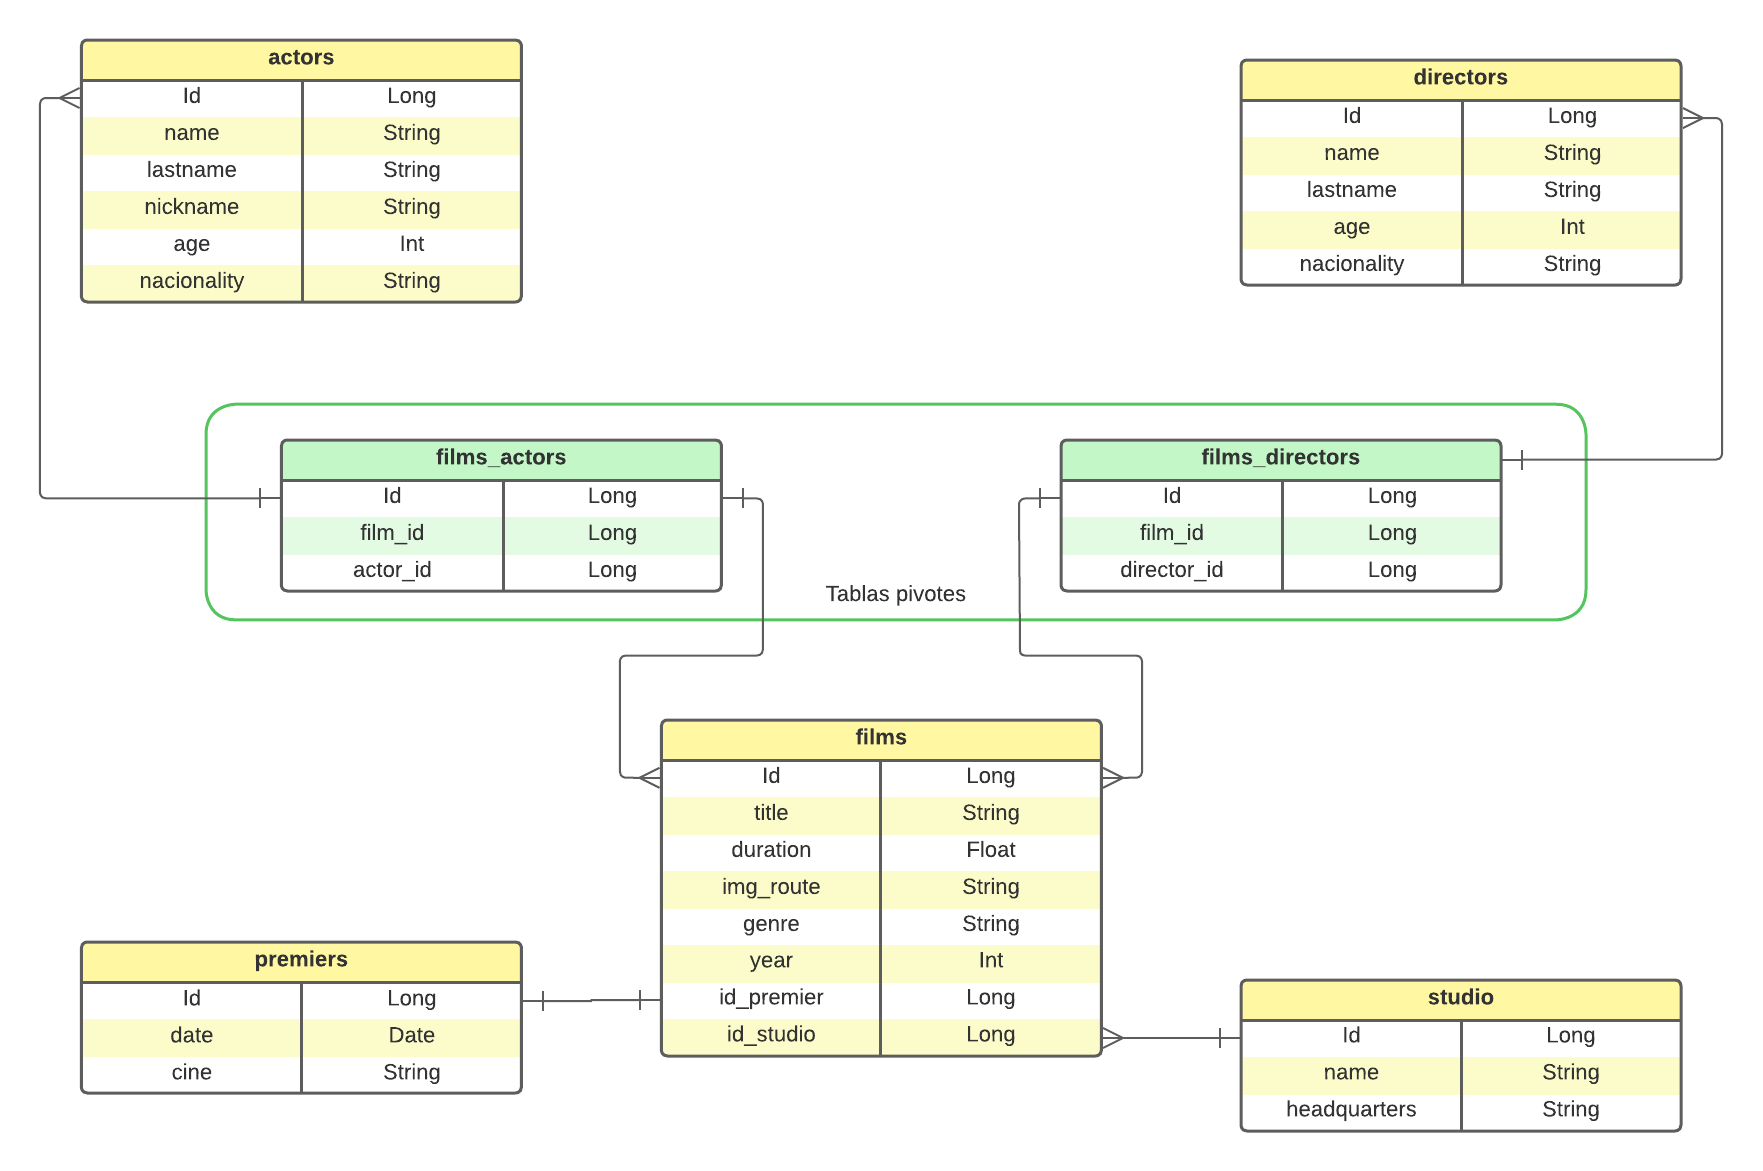
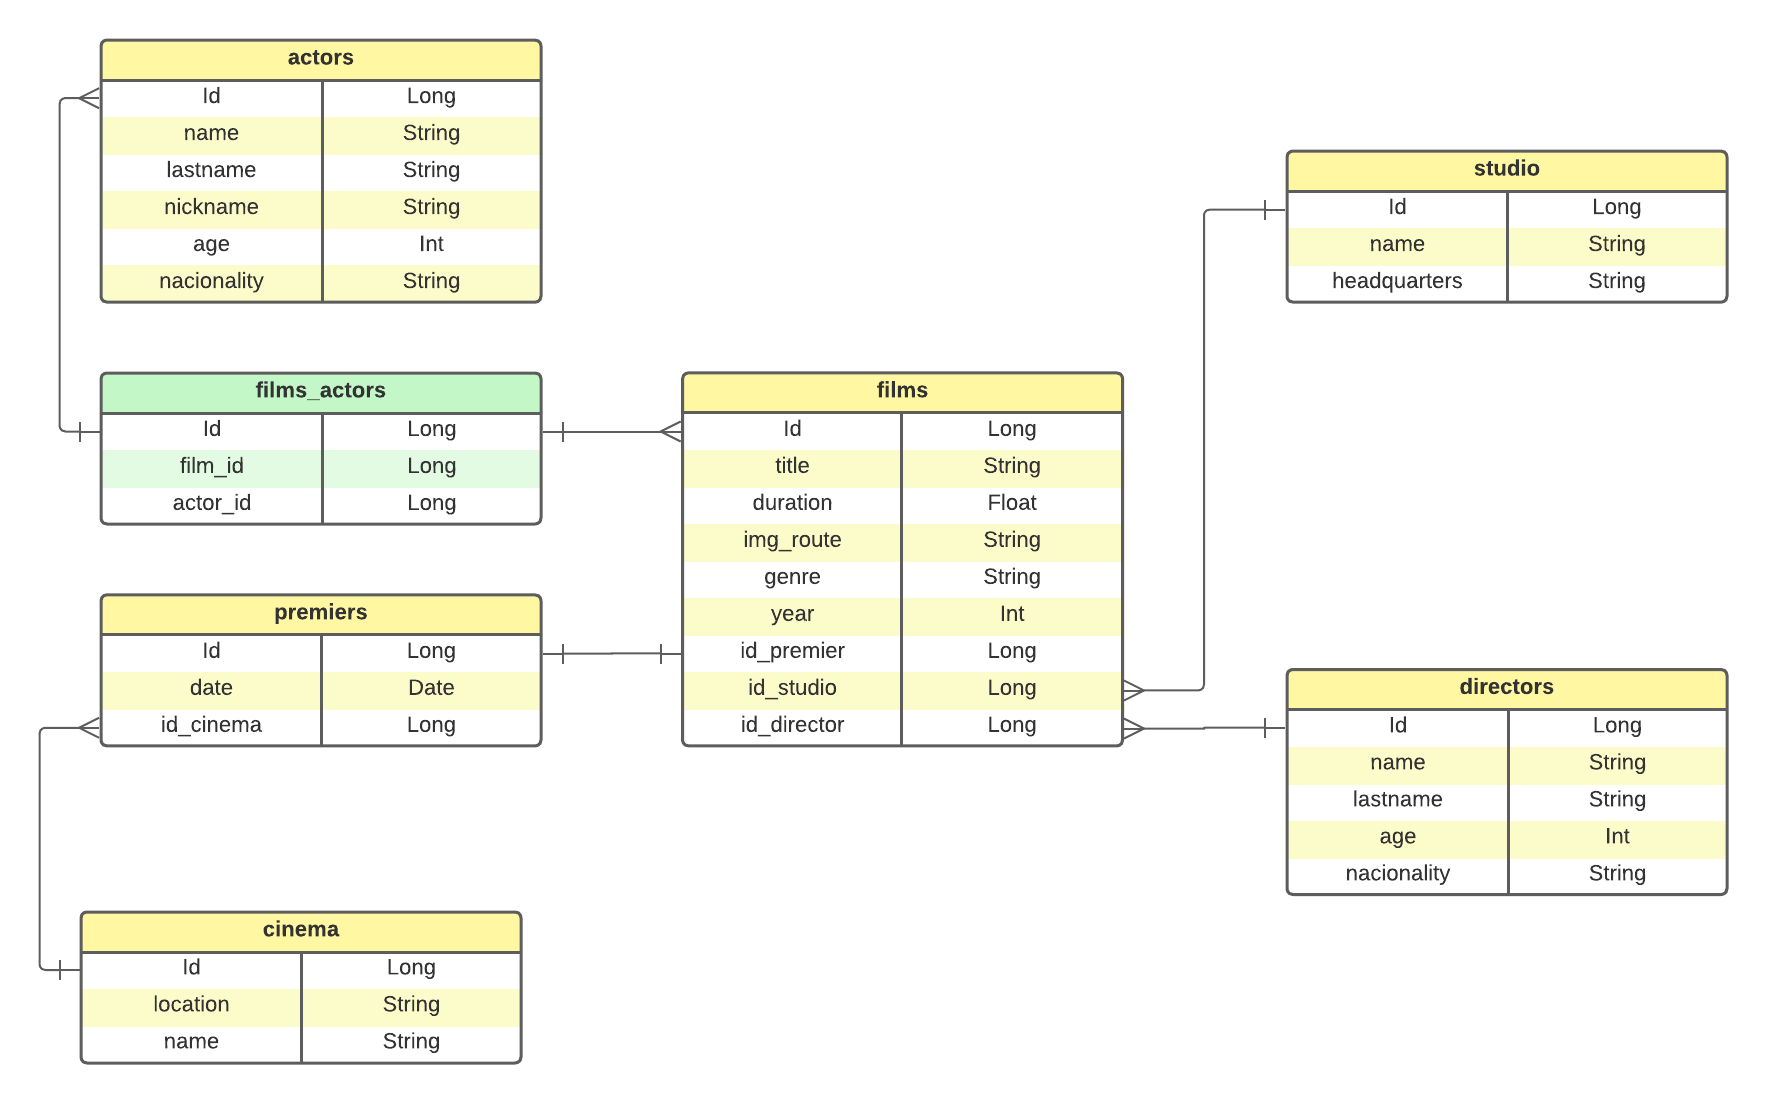
Relación 1:M entre Films-Director y primera parte del Script SQl

diff --git a/src/main/java/upchi/api/movie/film/entities/Film.java b/src/main/java/upchi/api/movie/film/entities/Film.java
@@ -15,6 +15,7 @@ import javax.persistence.Table;
 
 import lombok.Getter;
 import lombok.Setter;
+import upchi.api.movie.director.entities.Director;
 import upchi.api.movie.pivots.FilmActor;
 import upchi.api.movie.premier.entities.Premier;
 import upchi.api.movie.studio.entities.Studio;
@@ -43,6 +44,10 @@ public class Film {
     @OneToOne
     @JoinColumn(name = "premier_id", referencedColumnName = "id")
     private Premier premier;
+
+    @OneToOne
+    @JoinColumn(name="director_id", referencedColumnName = "id")
+    private Director director;
 
     @ManyToOne
     private Studio studio;

diff --git a/src/main/java/upchi/api/movie/director/entities/Director.java b/src/main/java/upchi/api/movie/director/entities/Director.java
@@ -4,10 +4,12 @@ import javax.persistence.Entity;
 import javax.persistence.GeneratedValue;
 import javax.persistence.GenerationType;
 import javax.persistence.Id;
+import javax.persistence.OneToOne;
 import javax.persistence.Table;
 
 import lombok.Getter;
 import lombok.Setter;
+import upchi.api.movie.film.entities.Film;
 
 @Entity
 @Table(name = "directors")
@@ -24,5 +26,7 @@ public class Director {
     private Integer age;
     private String nationality;
 
+    @OneToOne(mappedBy = "director")
+    private Film film;
     
 }
